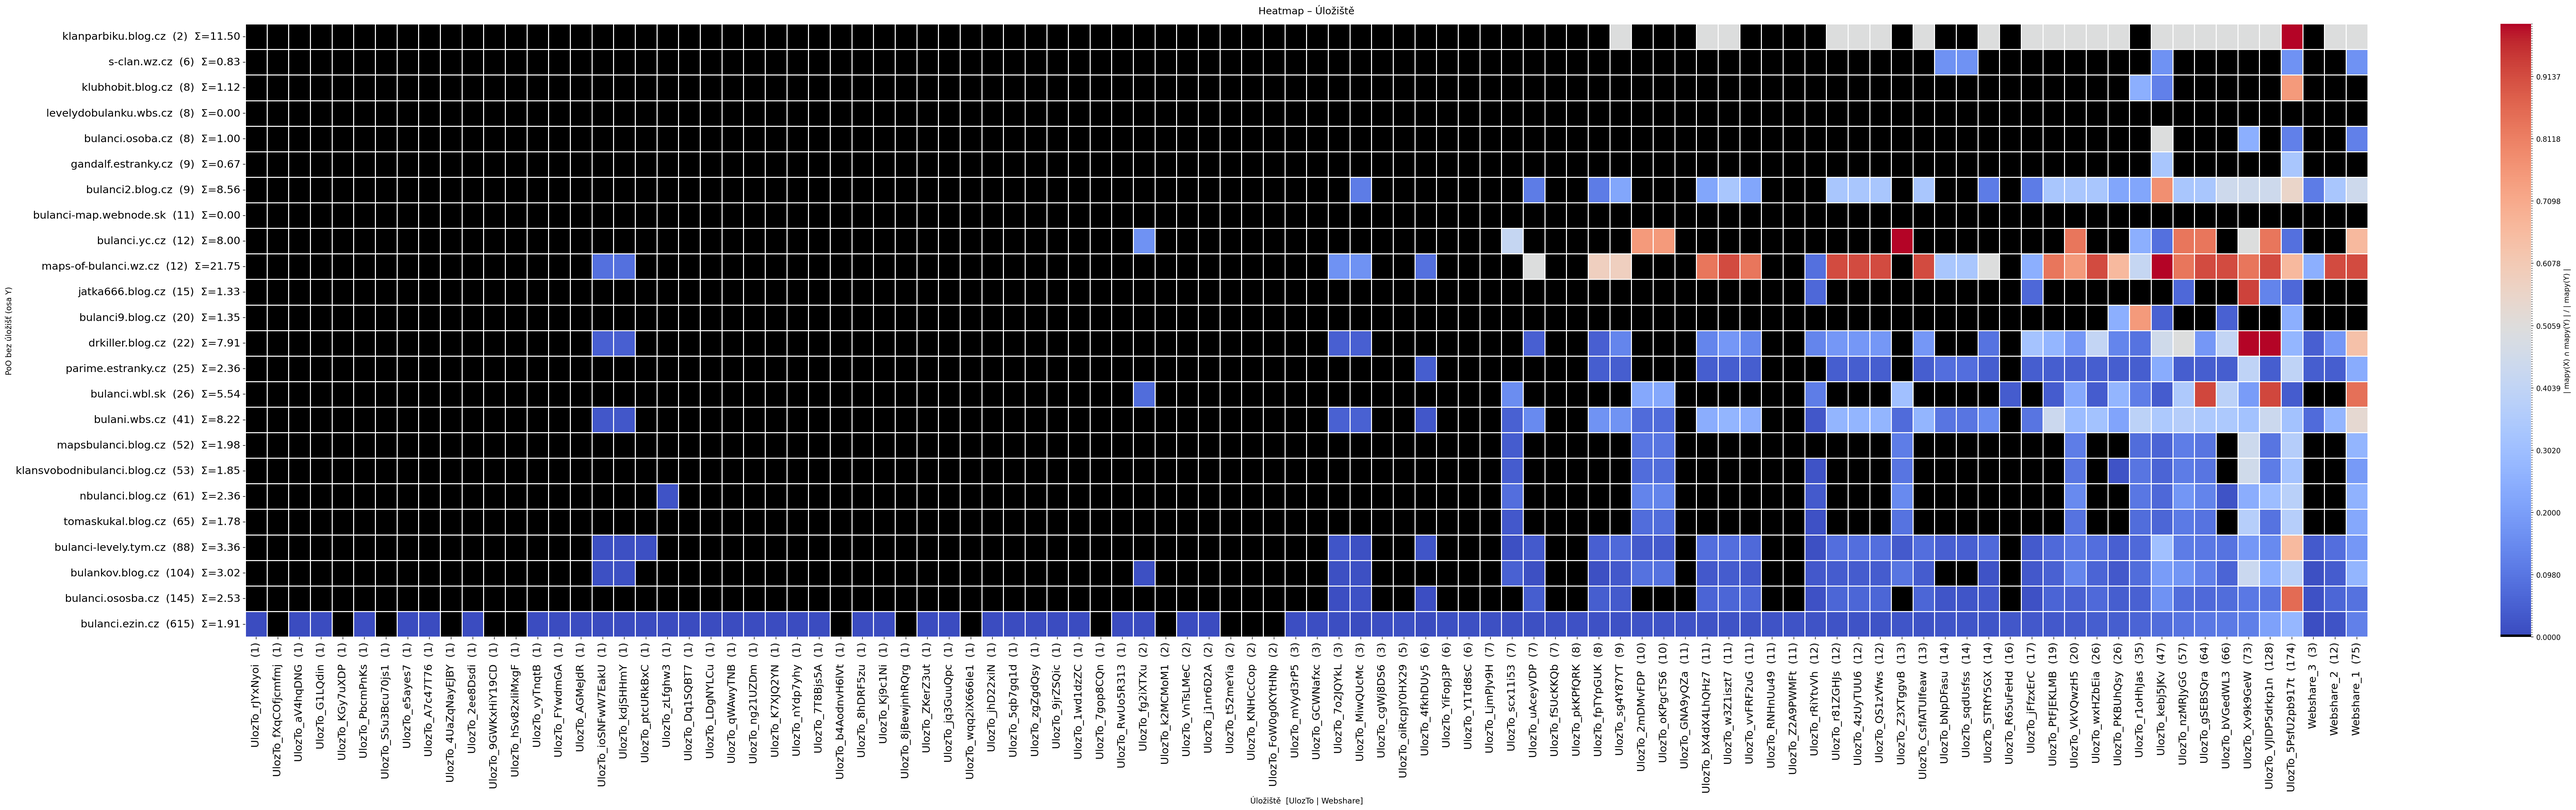
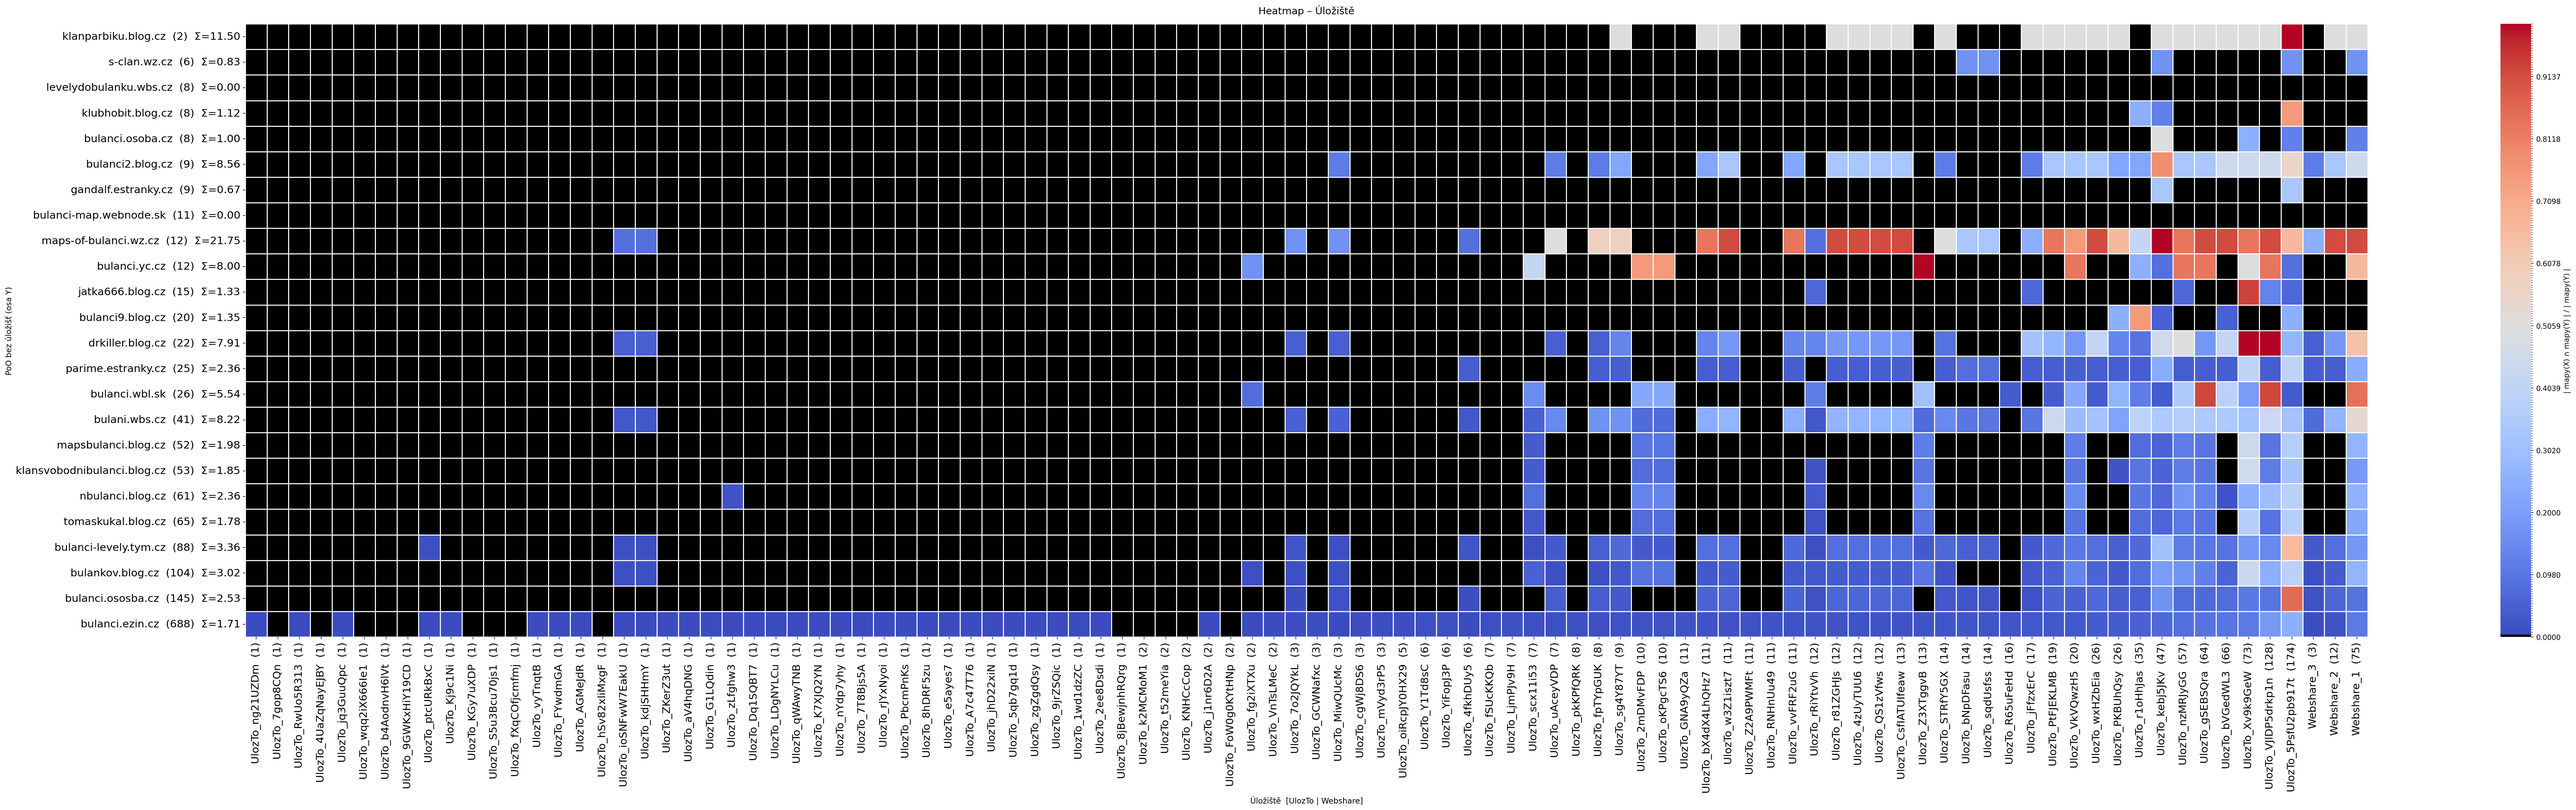
Move metadata to new folder part 2

diff --git a/name_getter.py b/name_getter.py
@@ -34,12 +34,12 @@ def chceck_if_named(json_file):
 
 def main():
     file = str(file_path)
-    file = file.replace('maps/', '')
+    file = file.replace('_MAPS_/', '')
     json_file = f"./maps_metadata/{file[:-4]}.json"
     print(f"Checking {file}")
     y = chceck_if_named(json_file)
     if y == False:
-        shutil.copy(f"./maps/{file}", "./bulanci_hra/")
+        shutil.copy(f"./_MAPS_/{file}", "./bulanci_hra/")
         bulanci_menu_clicker()
         Name = bulanci_screenshot().strip()
         print(Name)
@@ -55,6 +55,6 @@ def main():
         os.remove(f"./bulanci_hra/{file}")
 
 if __name__ == "__main__":
-    maps = Path("./maps/")
+    maps = Path("./_MAPS_/")
     for file_path in maps.glob('*.eap'):
         main()

diff --git a/main.py b/main.py
@@ -15,7 +15,8 @@ def main():
         print("3. Run Screenshoter")
         print("4. Make new HTML overview")
         print("5. Delete place")
-        print("6. Exit")
+        print("6. Run Places Visualization")
+        print("7. Exit")
 
         choice = input("Select option (1-5): ")
 
@@ -28,8 +29,10 @@ def main():
         elif choice == "4":
             run_script("maps_overview.py")
         elif choice == "5":
-            run_script("delete_place.py")    
+            run_script("delete_place.py")
         elif choice == "6":
+            run_script("places_visualization.py")    
+        elif choice == "7":
             break
         else:
             print("Invalid choice. Try again.")

diff --git a/hasher.py b/hasher.py
@@ -55,10 +55,10 @@ def check_hash(file_hash, place):
             file_str = str(file)
             file_str = file_str.replace('unsorted_maps/', '')
             base_name = (file_str)[:-4]
-            json_file = f"./_MAPS_/{base_name}.json"
+            json_file = f"./maps_metadata/{base_name}.json"
             counter = 1
             while os.path.exists(json_file):
-                json_file = f"./_MAPS_/{base_name}_{counter}.json"
+                json_file = f"./maps_metadata/{base_name}_{counter}.json"
                 counter += 1
             data = {
                 "Name": "",

diff --git a/places_visualization.py b/places_visualization.py
@@ -9,7 +9,7 @@ from collections import defaultdict
 
 # ── 1. Načtení dat ────────────────────────────────────────────────────────────
 
-MAPS_DIR = "_MAPS_"
+MAPS_DIR = "maps_metadata"  # Directory containing the JSON files
 
 poo_to_maps = defaultdict(set)
 

diff --git a/maps_overview.py b/maps_overview.py
@@ -2,7 +2,7 @@ import os
 import json
 
 MAPS_DIR = "./maps_metadata"  # Directory containing the JSON files
-IMG_DIR = "./maps"  # Directory containing the images
+IMG_DIR = "./_MAPS_"  # Directory containing the images
 OUTPUT_FILE = "maps_overview.html"
 
 rows_html = ""
